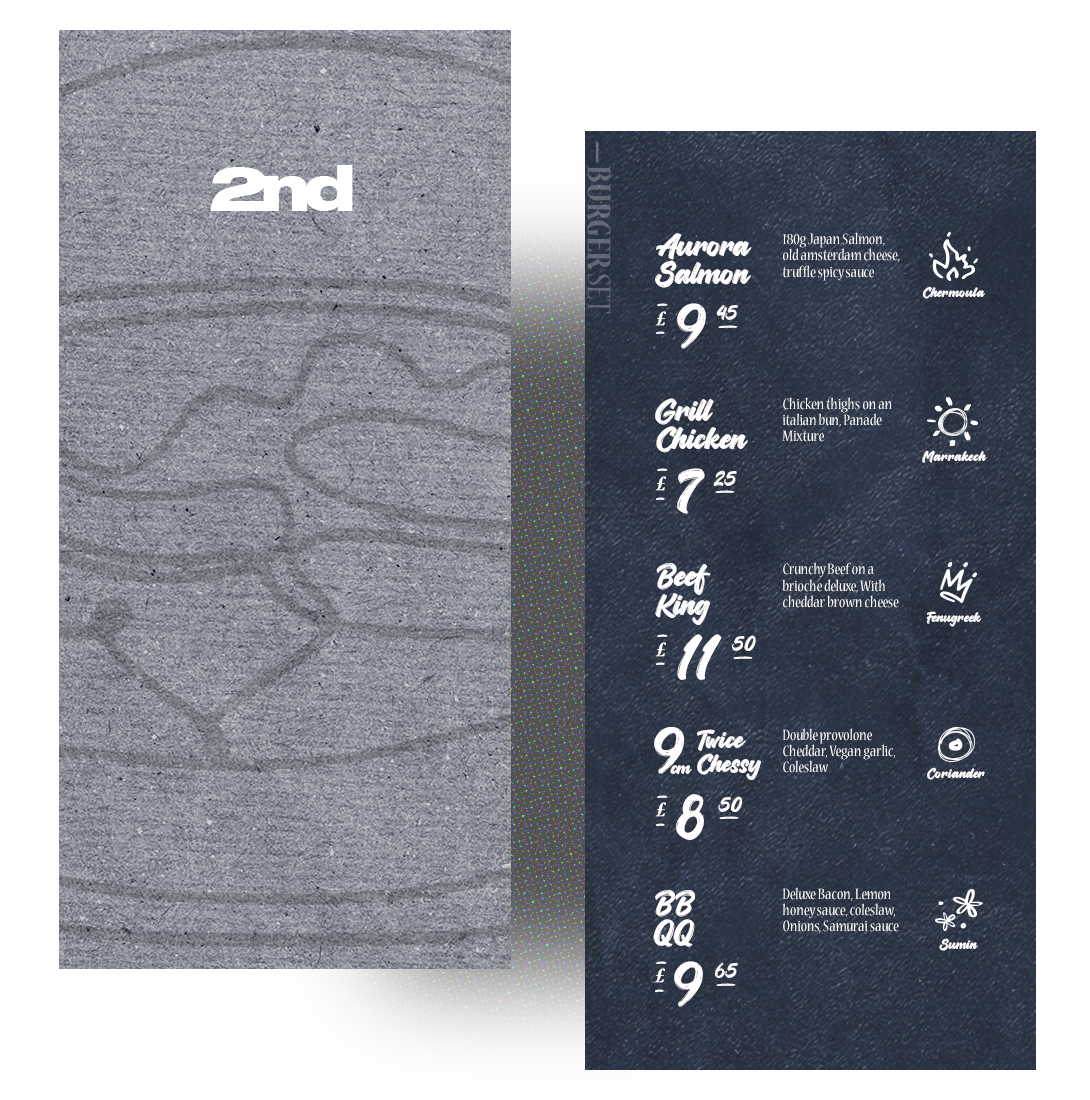
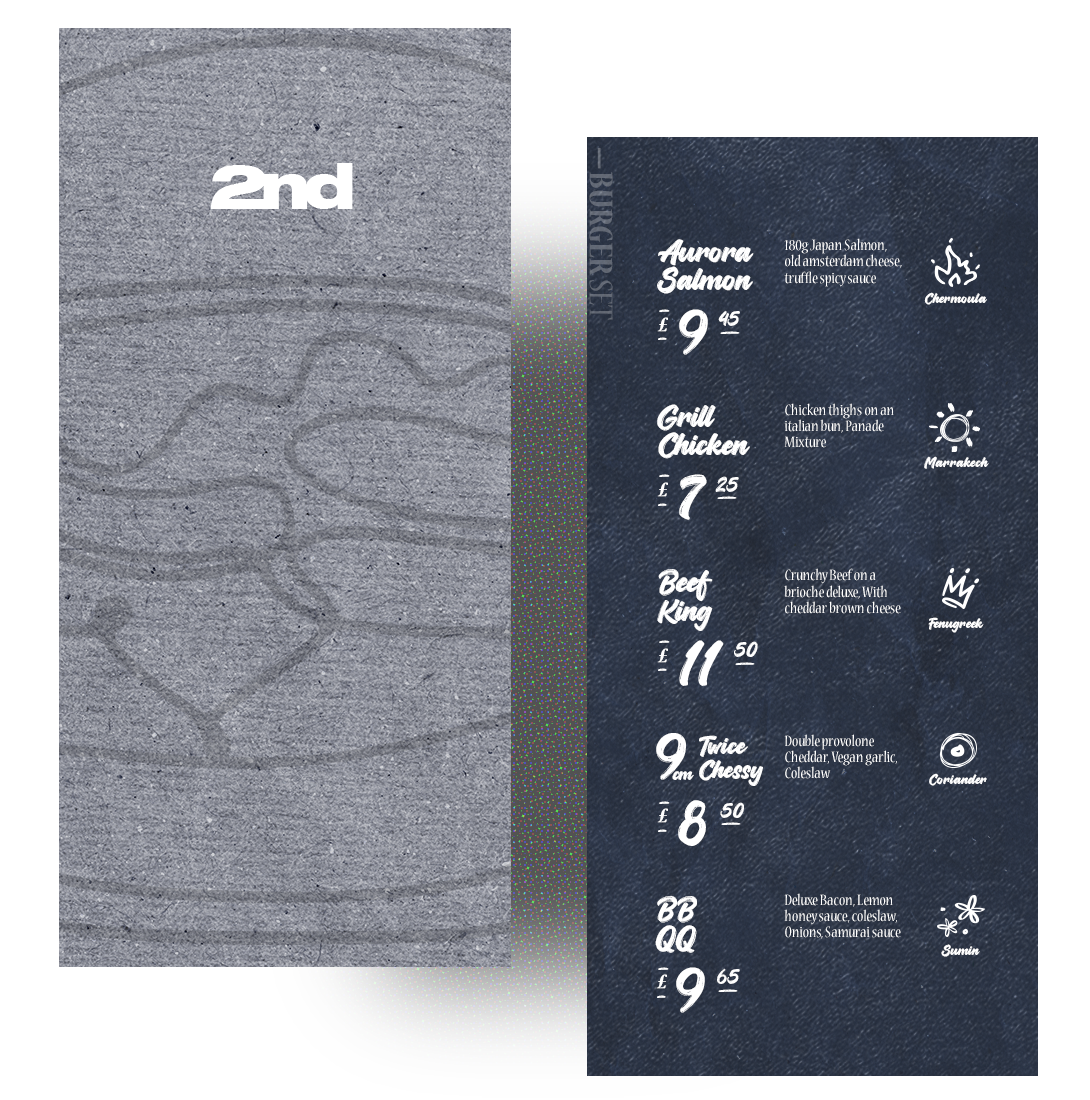
3011_01

diff --git a/stylesheets/projects/2nd.css b/stylesheets/projects/2nd.css
@@ -288,15 +288,15 @@
 
 .parallax-4 {
     top: 8vh;
-    left: 8vw;
-    width: 52vw;
+    left: 12vw;
+    width: 65vw;
     z-index: 99;
 }
 
 .parallax-10 {
     top: 0vh;
-    left: 17vw;
-    width: 52vw;
+    left: 18vw;
+    width: 56vw;
     z-index: 99;
 }
 
@@ -316,9 +316,12 @@
     }
     
     .parallax-7 img {
-        top: 0vh;
+        top: -12vh;
         left: 0vw;
-        width: 100%;
+        width: 83%;
+        display: block;
+        margin-left: auto;
+        margin-right: auto;
     }
 
 
@@ -777,7 +780,6 @@ body, .body {
     display: block;
     margin-left: auto;
     margin-right: auto;
-
     }
 
     .parallax-8 img {
